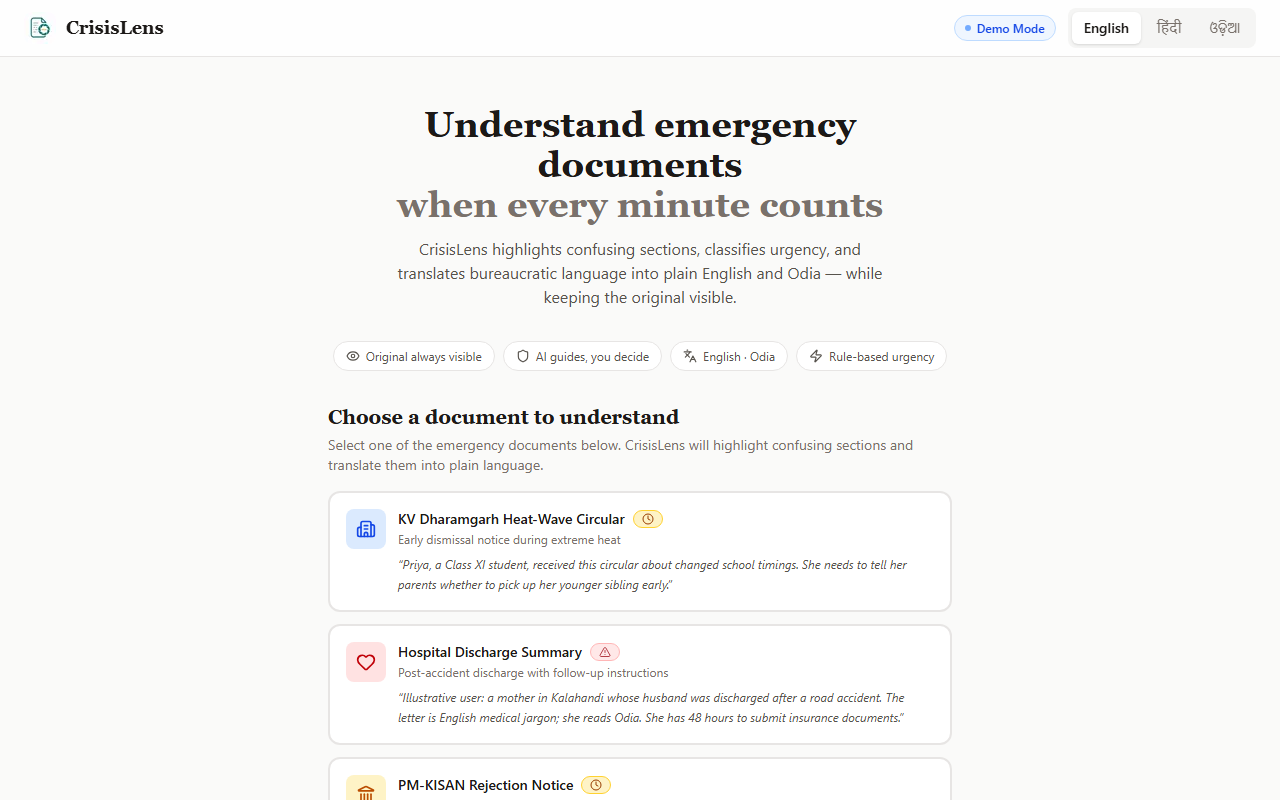
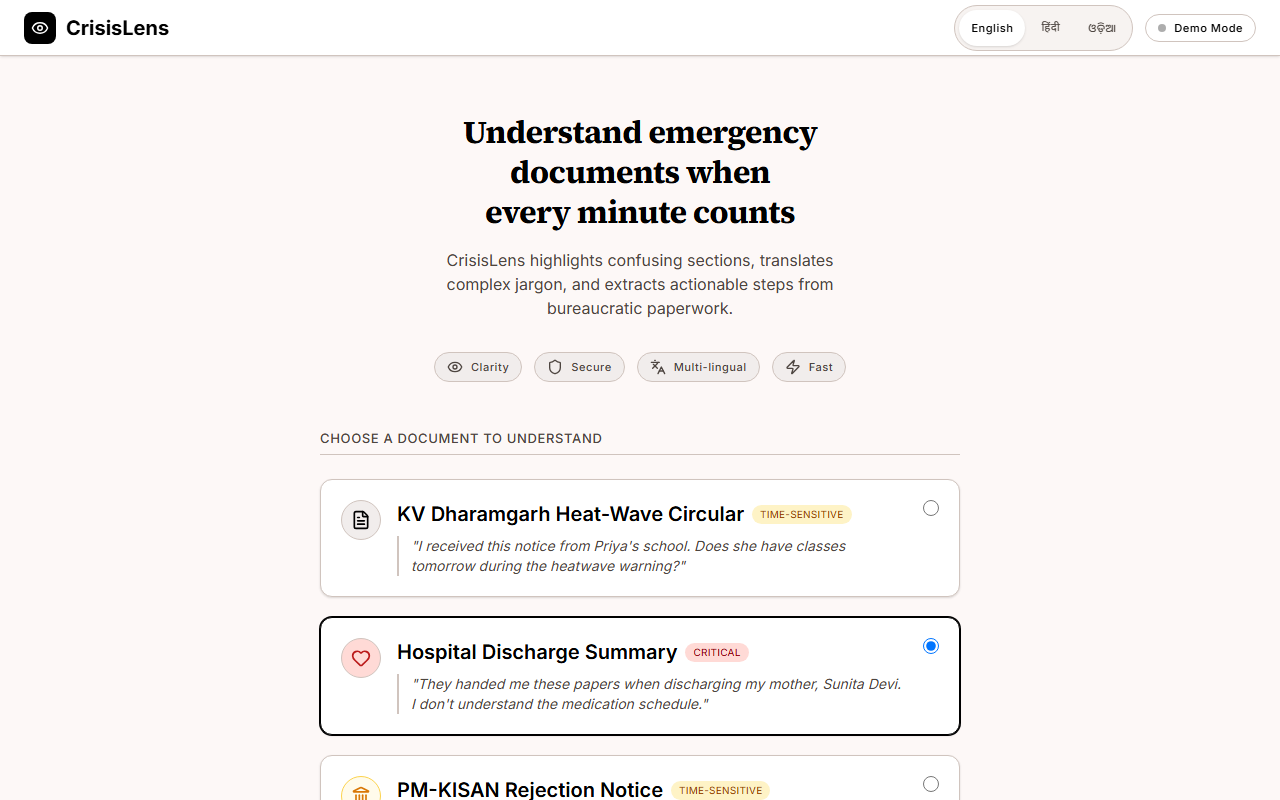
docs: refresh production screenshots after Stitch UI deploy

diff --git a/scripts/capture-screenshots.ts b/scripts/capture-screenshots.ts
@@ -61,8 +61,9 @@ async function main() {
   const paragraph = page.getByTestId('paragraph-p-7');
   await paragraph.waitFor({ timeout: 15000 });
   await paragraph.click();
-  await page.getByTestId('gist-sidebar-content').waitFor({ timeout: 10000 });
+  await page.locator('#gist-sidebar').getByTestId('gist-sidebar-content').waitFor({ timeout: 10000 });
   await page
+    .locator('#gist-sidebar')
     .getByTestId('gist-sidebar-content')
     .getByText(ODIA_GIST_MARKER)
     .first()
@@ -93,9 +94,10 @@ async function main() {
   await mobilePage.goto(`${BASE_URL}${VIEWER_URL}`, { waitUntil: 'networkidle' });
   await mobilePage.getByTestId('paragraph-p-7').waitFor({ timeout: 15000 });
   await mobilePage.getByTestId('paragraph-p-7').click();
-  await mobilePage.getByRole('dialog', { name: 'Analysis panel' }).waitFor({ timeout: 10000 });
-  await mobilePage.getByTestId('gist-sidebar-content').waitFor({ timeout: 10000 });
-  await mobilePage
+  const mobileDialog = mobilePage.getByRole('dialog', { name: 'Analysis panel' });
+  await mobileDialog.waitFor({ timeout: 10000 });
+  await mobileDialog.getByTestId('gist-sidebar-content').waitFor({ timeout: 10000 });
+  await mobileDialog
     .getByTestId('gist-sidebar-content')
     .getByText(ODIA_GIST_MARKER)
     .first()
